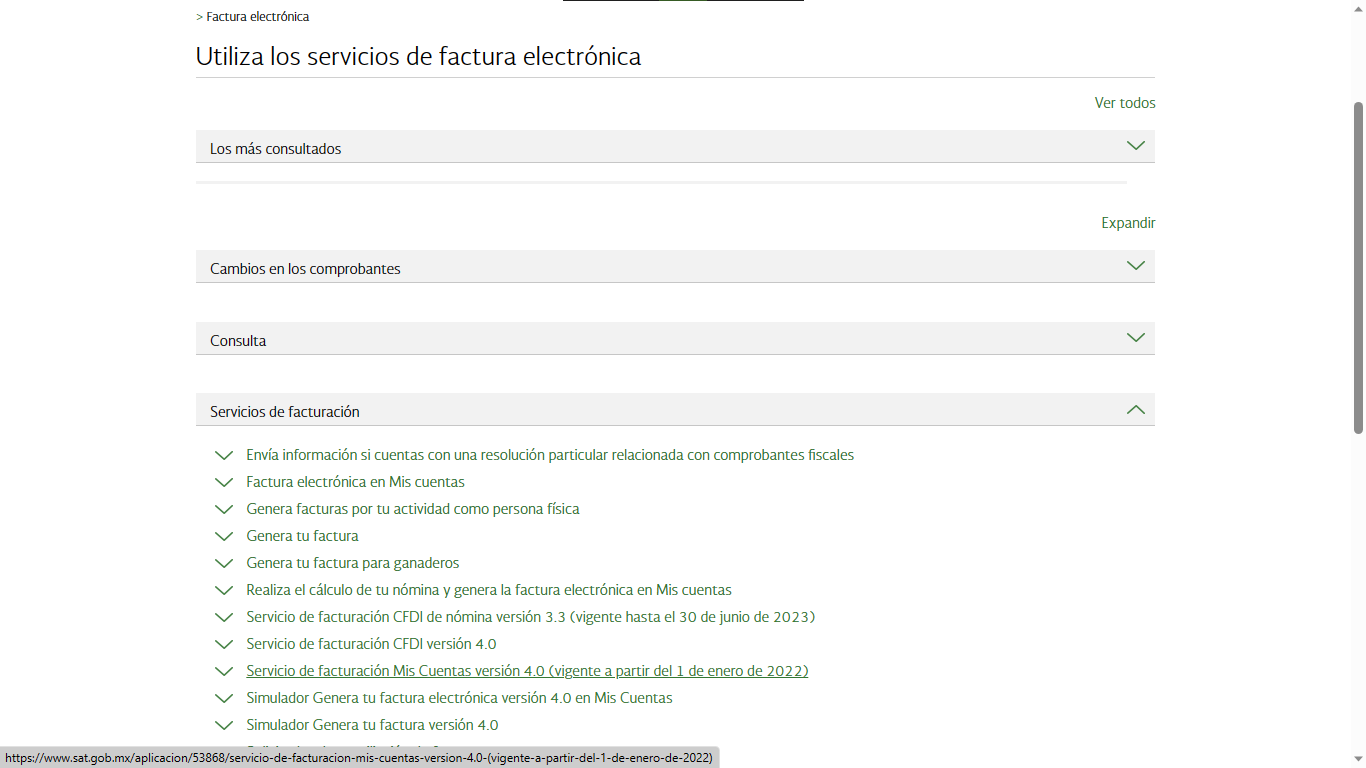
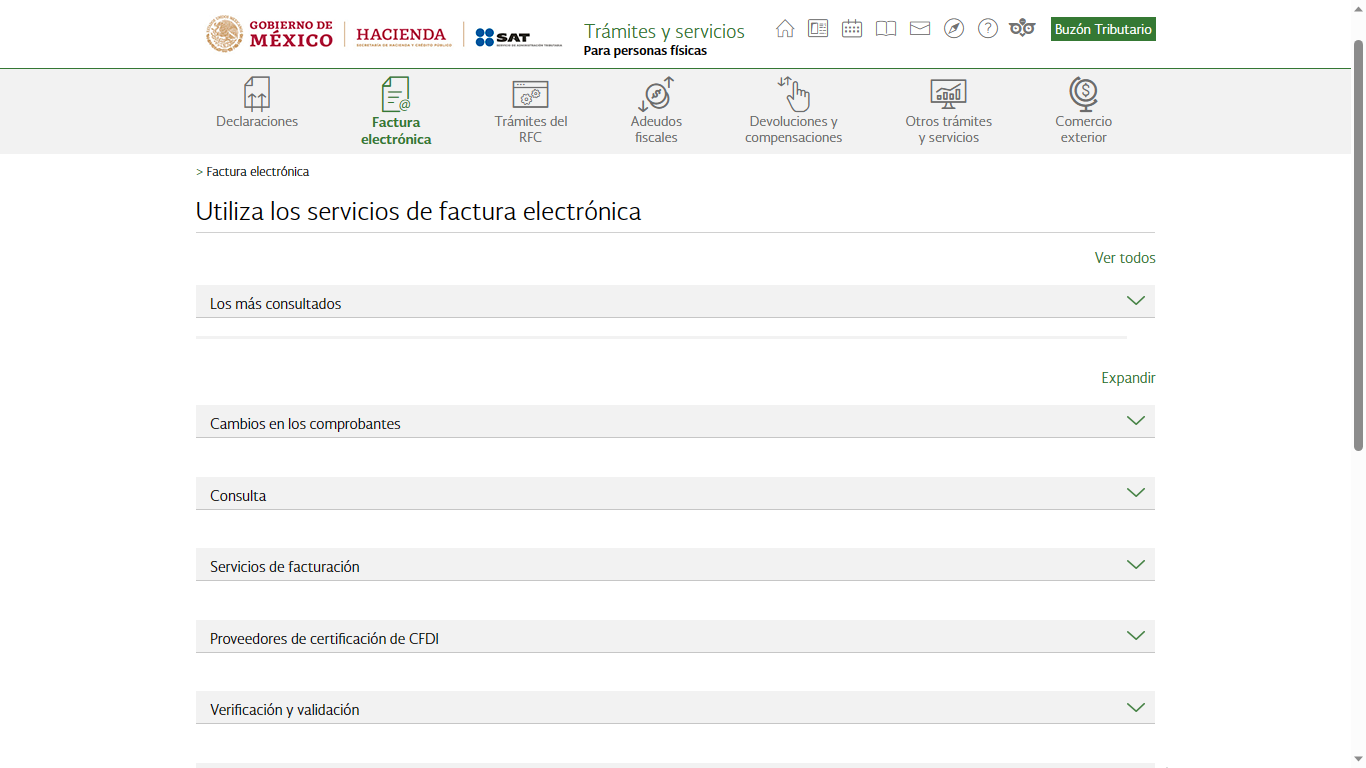
Pasos intermedios inicio CFDI

diff --git a/SAT-Modular/static/js/tutorialCFDI.js b/SAT-Modular/static/js/tutorialCFDI.js
@@ -1,6 +1,7 @@
 var contador = 0;
 
 // HTML captura del tutorial
+// Posición 0
 var SAT_inicio0 = `
 <div class="tuto-window">
     <img class="captura" src="/static/images/CFDI/SAT-inicio0.png" alt="image">
@@ -8,55 +9,92 @@ var SAT_inicio0 = `
 </div>
 `;
 
+// Posición 1
 var SAT_inicio1 = `
 <div class="tuto-window">
     <img class="captura" src="/static/images/CFDI/SAT-inicio1.png" alt="image">
     <input type="button" onclick="siguiente(), actualizarTexto(2)" value="Servicio de facturación CFDI versión 4.0">
 </div>
 <input type="button" onclick="anterior(), actualizarTexto(0)" value="Atras">
-<input type="button" onclick="actualizarTexto(4)" value="Distinto">
-<input type="button" onclick="actualizarTexto(5)" value="Otro más">
 `;
 
+// Posición 2
 var SAT_inicio2 = `
 <div class="tuto-window">
     <img class="captura" src="/static/images/CFDI/SAT-inicio2.png" alt="image">
-    <input type="button" onclick="siguiente(), actualizarTexto(3)" value="Servicio de facturación Mis Cuentas versión 4.0 (vigente a partir del 1 de enero de 2022">
+    <input type="button" onclick="siguiente(), actualizarTexto(3)" value="Servicios de facturación">
 </div>
 <input type="button" onclick="anterior(), actualizarTexto(1)" value="Atras">
 `;
 
+// Posición 3
 var SAT_inicio3 = `
 <div class="tuto-window">
     <img class="captura" src="/static/images/CFDI/SAT-inicio3.png" alt="image">
-    <input type="button" onclick="siguiente(), actualizarTexto()" value="EJECTUAR EN LINEA">
+    <input type="button" onclick="siguiente(), actualizarTexto(4)" value="Servicio de facturación Mis Cuentas versión 4.0 (vigente a partir del 1 de enero de 2022">
 </div>
 <input type="button" onclick="anterior(), actualizarTexto(2)" value="Atras">
 `;
 
+// Posición 4
+var SAT_inicio4 = `
+<div class="tuto-window">
+    <img class="captura" src="/static/images/CFDI/SAT-inicio4.png" alt="image">
+    <input type="button" onclick="siguiente(), actualizarTexto()" value="EJECTUAR EN LINEA">
+</div>
+<input type="button" onclick="anterior(), actualizarTexto(3)" value="Atras">
+`;
+
 
 // Textos de guía
+// Posición 0
 var boton_factura_electronica = `
 Desde la página de inicio del portal SAT haz click en el apartado de "Factura electrónica"
 `;
 
+// Posición 1
 var boton_servicio_facturacion = `
 En la ventana emergente haz click en el apartado de "Servicio de facturación CFDI versión 4.0"
 `;
 
+// Posición 2
+var boton_servicios_facturacion = `
+Una vez dentro ubica y haz click en "Servicios de facturación" donde se desplegaran más opciones
+`;
+
+// Posición 3
 var boton_facturacion_cuentas = `
 Una vez dentro ubica y haz click en "Servicio de facturación Mis Cuentas versión 4.0 (vigente a partir del 1 de enero de 2022", al ingresar en la sección de Mis cuentas no necesitarás la e.firma
 `;
 
+// Posición 4
 var boton_ejecutar_linea = `
 Puedes ver información referente a la facturación, para comenzar haz click en "EJECUTAR EN LINEA"
 `;
 
-var otro = "Este es otro texto"
-var otro_mas = "Este es otro texto distinto"
+// Posición 5
+var login = `
+Aquí se realiza el inicio de sesión, como se entra desde Mis cuentas no se requiere al e.firma
+`;
 
-var HTML_text = [SAT_inicio0, SAT_inicio1, SAT_inicio2, SAT_inicio3]
-var tutorial_text = [boton_factura_electronica, boton_servicio_facturacion, boton_facturacion_cuentas, boton_servicio_facturacion, otro, otro_mas]
+// Posición 6
+var RFC_login = `
+El RFC en una clave tu única alfanumérica compuesta de 13 letras y números, para este ejemplo ingresa: XXXXXXXXXXXXX
+`;
+
+// Posición 7
+var contrasena_login = `
+Para este ejemplo la contraseña sera sat-sim, recuerda que tus contraseñas deben de ser fuertes y seguras
+`;
+
+// Posición 8
+var captcha_login = `
+El captcha es un método de seguridad de la plataforma, debes de ingresar las letras/números de la imágen superior, por último da click en "Enviar"
+`;
+
+var HTML_text = [SAT_inicio0, SAT_inicio1, SAT_inicio2, SAT_inicio3, SAT_inicio4]
+var tutorial_text = [boton_factura_electronica, boton_servicio_facturacion, boton_servicios_facturacion, boton_facturacion_cuentas, boton_ejecutar_linea,
+                    RFC_login, contrasena_login, captcha_login]
 
 async function actualizarTexto(pos){
     document.getElementById("tutorialText").innerHTML = tutorial_text[pos];

diff --git a/SAT-Modular/templates/CFDI/tutorialCFDI.html b/SAT-Modular/templates/CFDI/tutorialCFDI.html
@@ -1,7 +1,7 @@
 {% extends 'CFDI/layoutCFDI.html' %}
 
 {% block head %}
-<title>CFDI - Pt1</title>
+<title>CFDI - Tutorial</title>
 {% endblock %}
 
 {% block body %}
